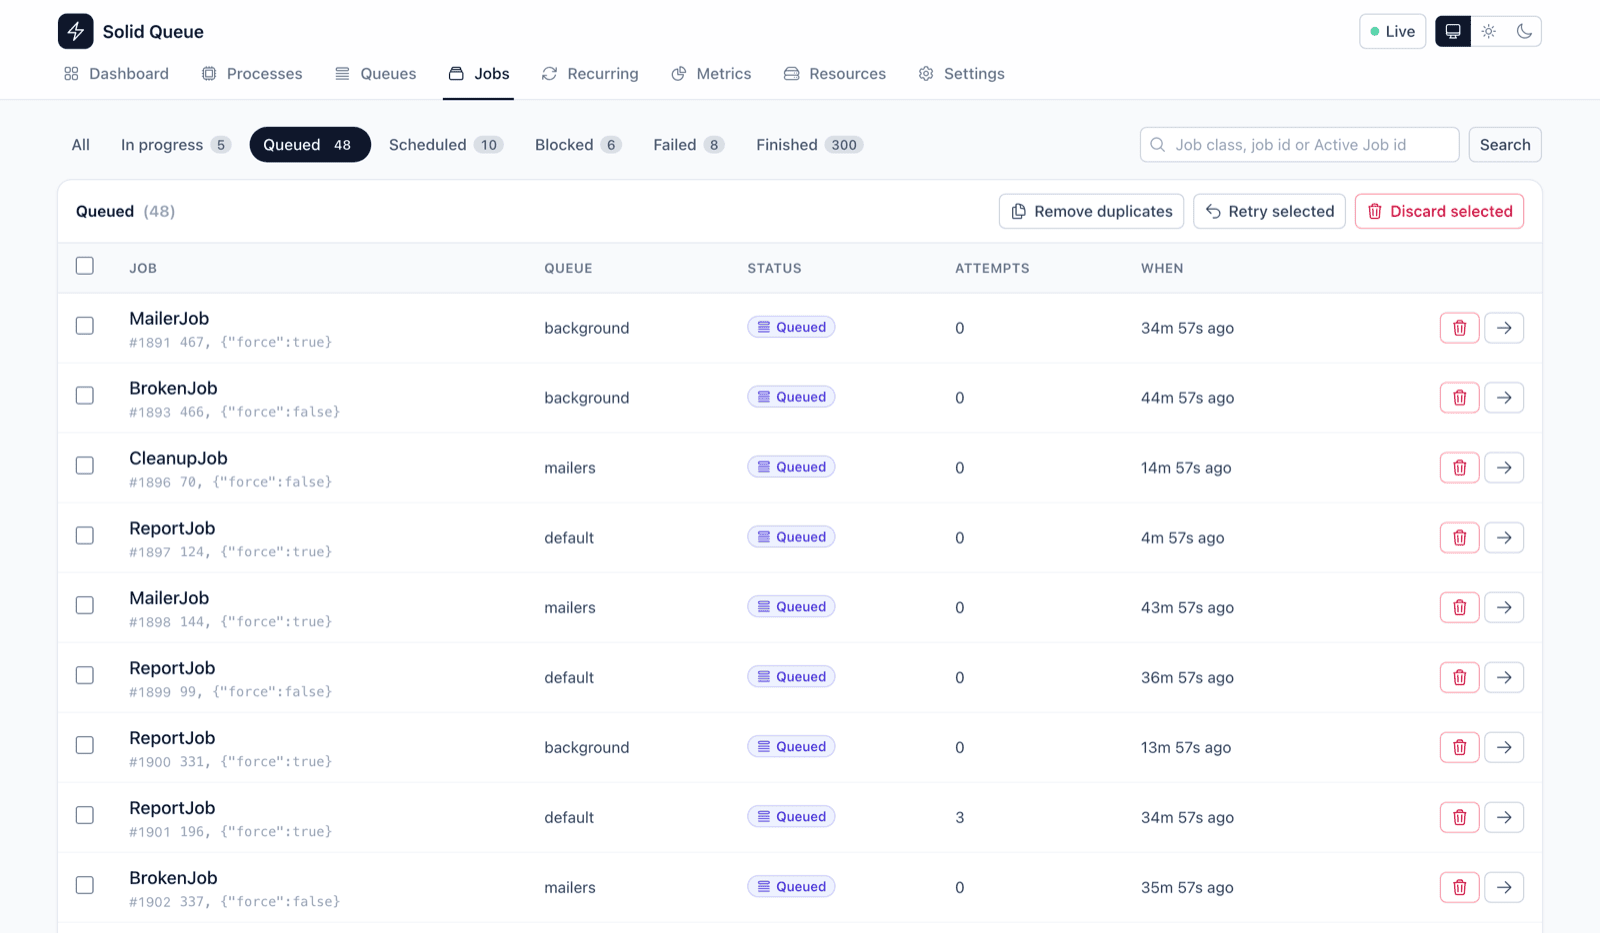
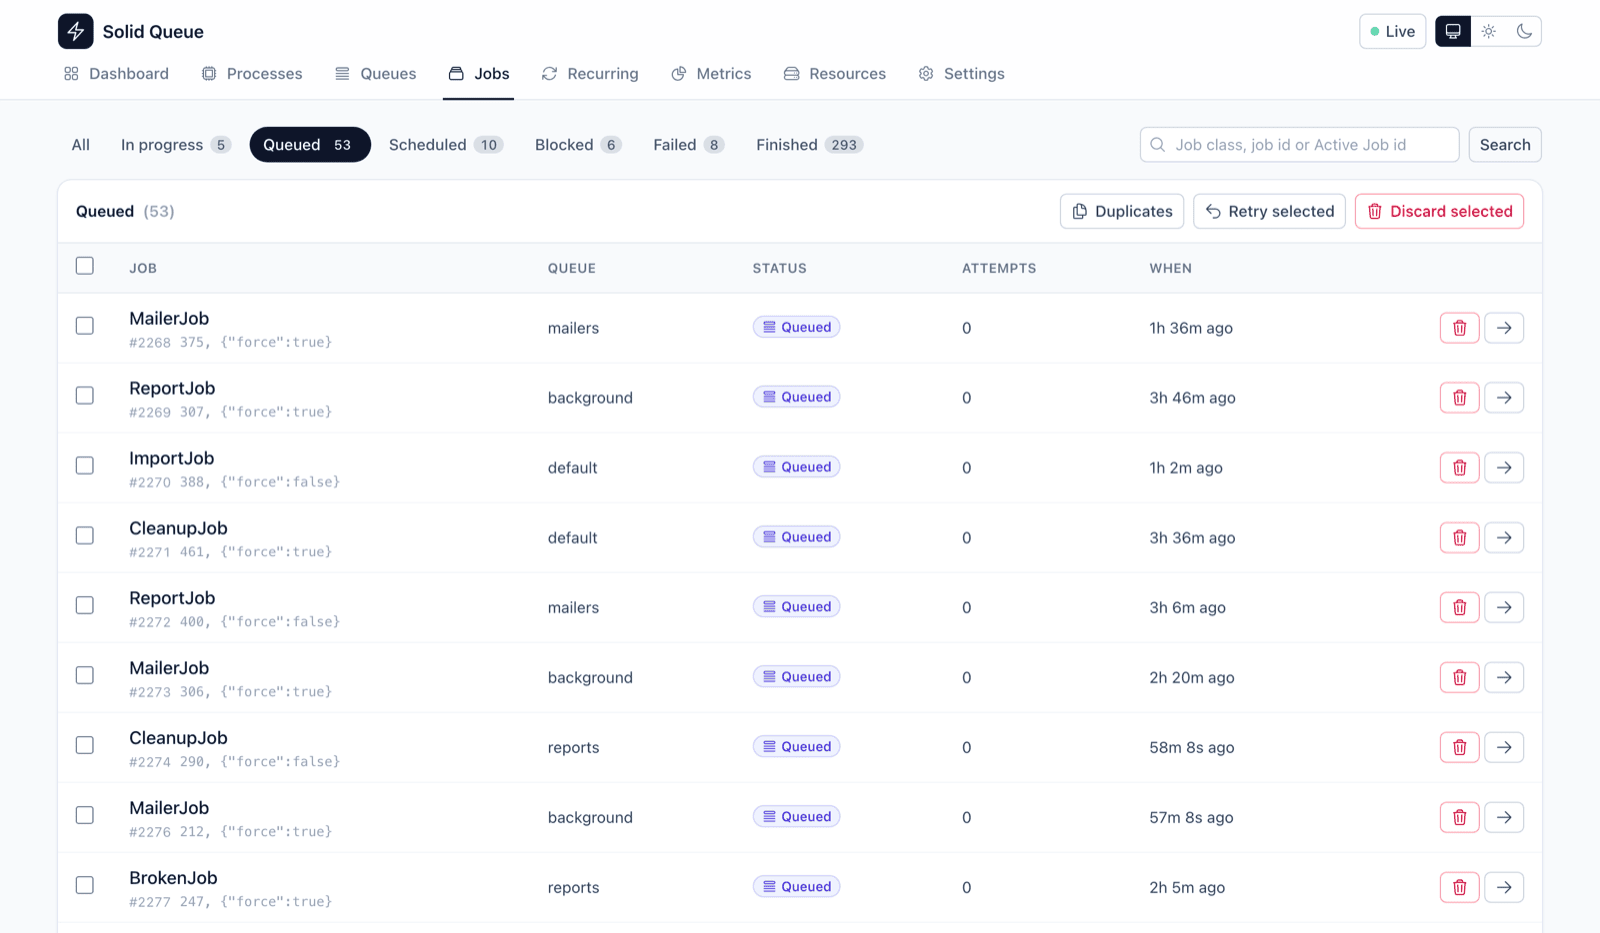
Call the button Duplicates, since that is what it shows
It opens a page of numbers now, and only discards anything once you say so, so
naming it after the deletion promised the wrong thing.

diff --git a/CHANGELOG.md b/CHANGELOG.md
@@ -25,7 +25,7 @@ project adheres to [Semantic Versioning](https://semver.org/spec/v2.0.0.html).
   over time, the resource cost of each job class, and advice on how many
   processes and threads the machine can take. Opt in with
   `bin/rails generate solid_queue_panel:resource_metrics`.
-- "Remove duplicates" on the queued tab, which counts the exact copies of an
+- "Duplicates" on the queued tab, which counts the exact copies of an
   earlier job on a page of its own, shows what they are copies of, and discards
   them once confirmed.
 - Throughput chart of jobs enqueued, finished and failed, with arrival and

diff --git a/README.md b/README.md
@@ -204,7 +204,7 @@ history says it should.
 
 ### Removing duplicates
 
-The queued tab has a **Remove duplicates** button. It opens a page that counts the copies first and
+The queued tab has a **Duplicates** button. It opens a page that counts the copies first and
 lists what they are copies of, so discarding them is a decision rather than a surprise — and so the
 count, which walks the queue, only runs when you ask for it rather than on every page you look at.
 Confirming discards every copy but the first of each group.
